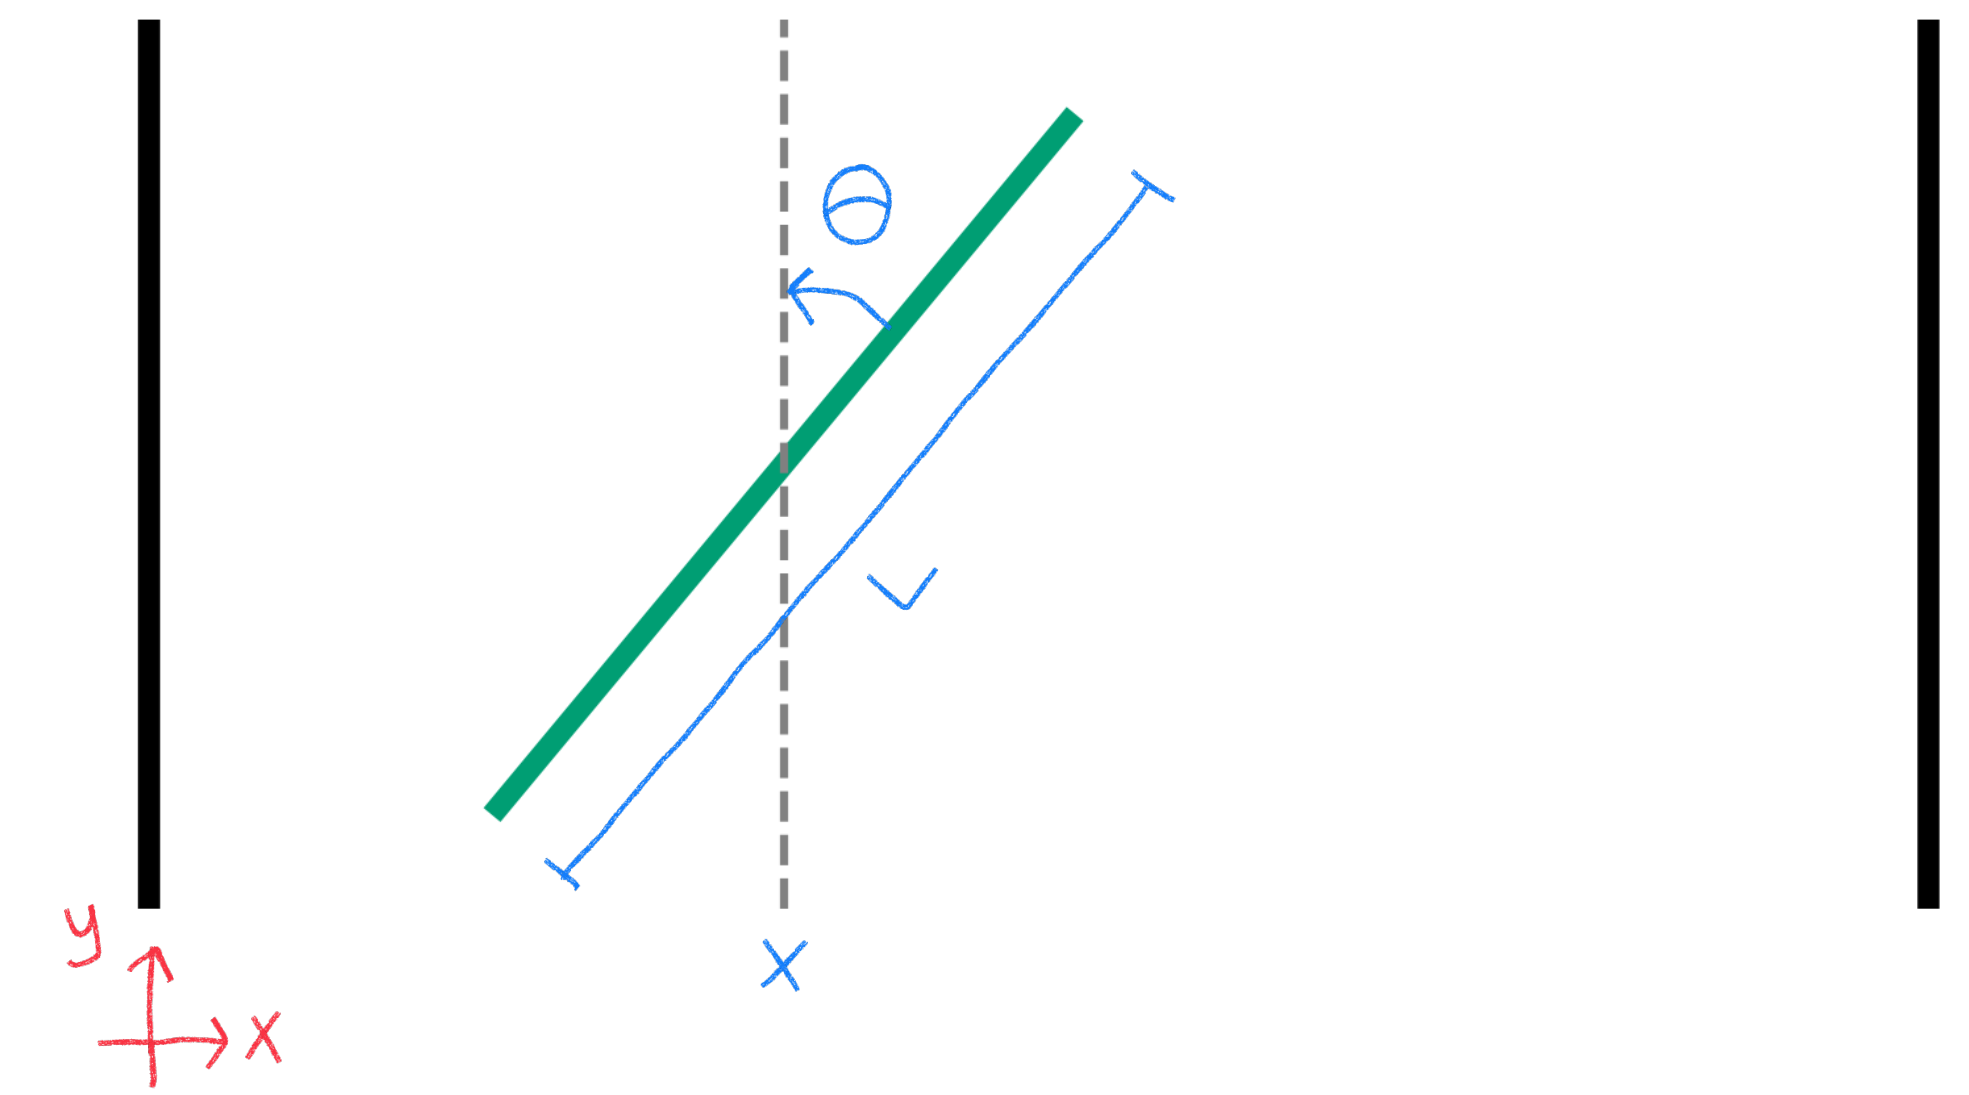
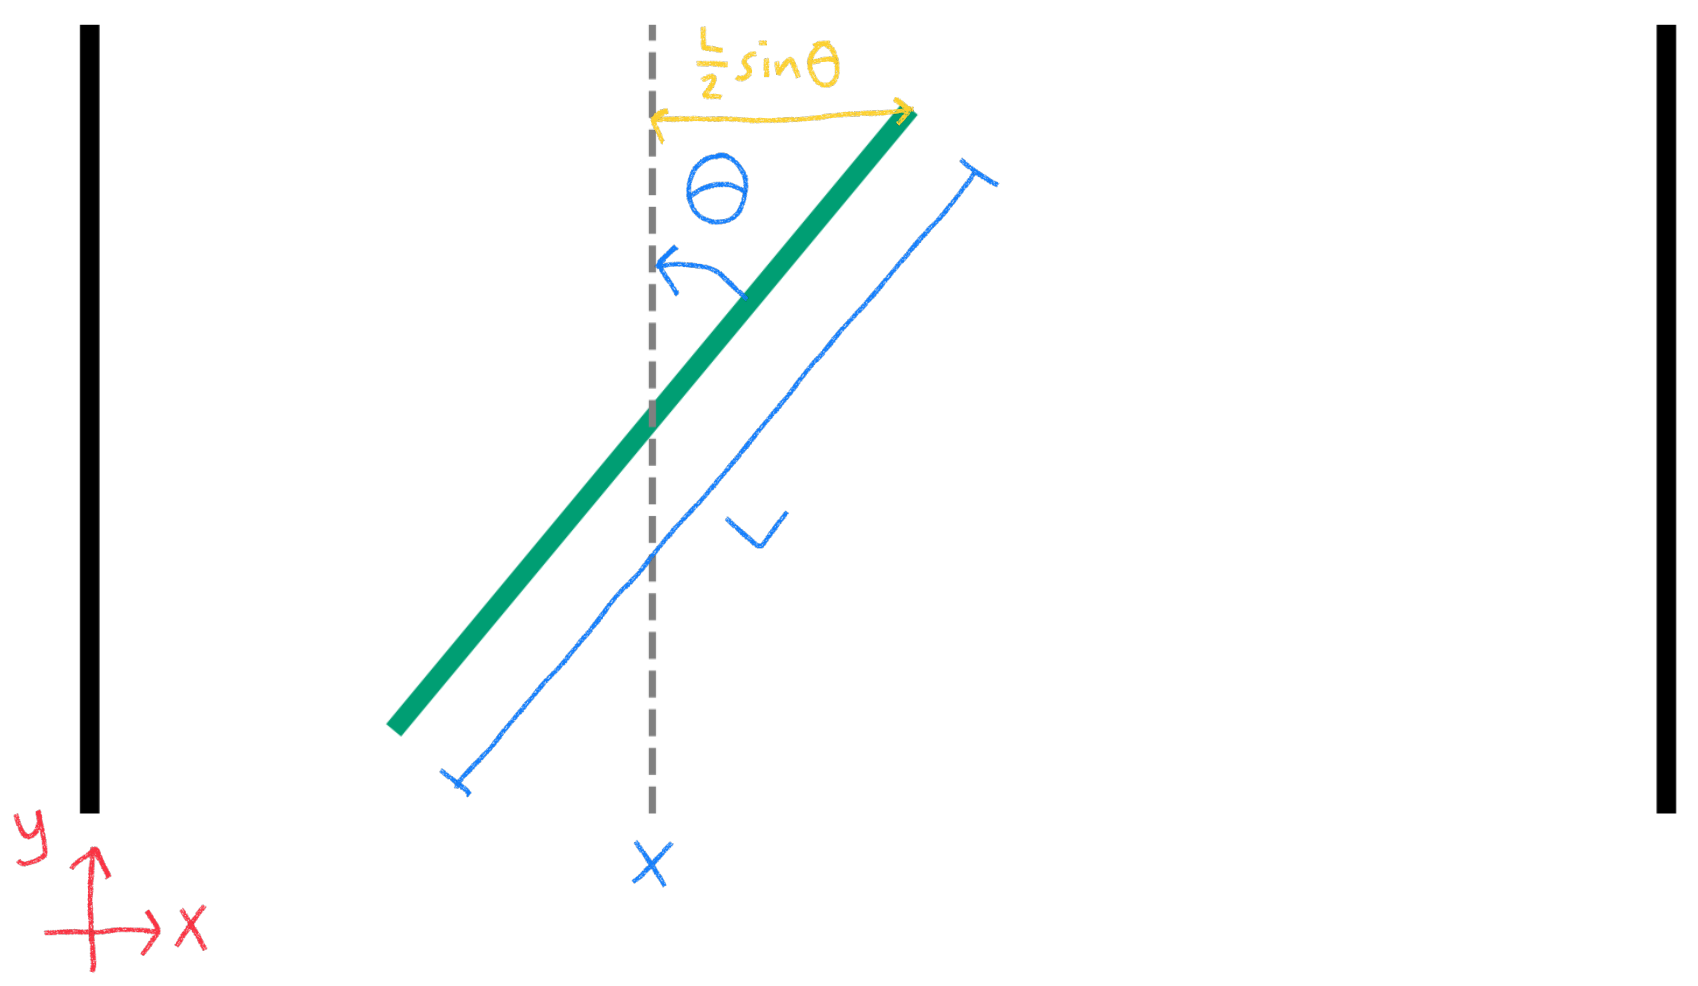
fixes

diff --git a/_posts/2018-04-11-buffon.md b/_posts/2018-04-11-buffon.md
@@ -42,7 +42,7 @@ The position and orientation of a needle on the floor is described by the Cartes
 </figure>
 
 Note that the $y$ coordinate of a needle does not influence whether it intersects a line on the floor or not.
-Therefore, we do not need to consider it for our calculations; we only need to keep track of the $x$-coordinate (green axis is the $x$-axis) and angle $\theta$ of a needle during the simulation.
+Therefore, we do not need to consider it for our calculations; we only need to keep track of the $x$-coordinate and angle $\theta$ of a needle during the simulation.
 
 We create a data structure `Needle` to represent a needle, storing its state $(x, \theta)$ and its attribute $L$.
 
@@ -58,9 +58,9 @@ end
 
 The simulation needs to model a needle being dropped anywhere on an infinite floor, but it is impractical to create an infinite floor for the simulation. If we define two lines and the space between them as a chunk, we can see that the fraction of needles that intersect a line in each chunk is expected to be the same for each chunk on the floor. Thus for our simulation, we consider only a single chunk $0 \leq x \leq \ell$ and arrive at the answer to Buffon's needle problem, which concerns an infinite floor.
 
-It would be proper to allow the angle with the vertical $0 \leq \theta \leq 2\pi$, however we can take advantage of some rotational symmetry. A needle with angle $\theta$ appears equivalent to a needle with the same coordinates and angle of $\theta + \pi$. We therefore only allow $0 \leq \theta \leq \pi$ in our calculations. For example, since $0 \leq \theta \leq \pi$ contains $\frac{\pi}{4}$ there is no need to test $\frac{5\pi}{4}$ because they would describe the same orientation of a needle.
+It would be proper to allow the angle with the vertical $0 \leq \theta \leq 2\pi$, however we can take advantage of some rotational symmetry. A needle with angle $\theta$ appears equivalent to a needle with the same coordinates and angle of $\theta + \pi$. We therefore only allow $0 \leq \theta \leq \pi$ in our calculations. 
 
-The "state space" $\mathcal{R}$ of a needle, and therefore the simulation box for our simulation is:
+The state space $\mathcal{R}$ of a needle is then:
 
 $$\mathcal{R} = \left \{ (x,\theta) \mid 0\leq x\leq \ell,0\leq \theta \leq \pi \right \}$$
 
@@ -83,9 +83,9 @@ This function essentially "samples" the needle state space, $\mathcal{R}$.
 
 ## checking a needle for intersection with a line on the floor
 
-A needle will intersect a line if part of the needle overlaps $x=0$ or $x=\ell$. We check for overlap by checking the $x$-coordinates of the endpoints of the needles. If one of those is outside the simulation box (one is less than $0$ or greater than $\ell$), then the needle intersects a line. 
+A needle will intersect a line if part of the needle overlaps $x=0$ or $x=\ell$. We check for overlap by checking the $x$-coordinates of the endpoints of the needles. If either the left or right endpoint of the needle is less than $0$ or greater than $\ell$, respectively, then the needle intersects a line. 
 
-The $x$-coordinates of the two endpoints of a needle are found as follows. First, take the $x$-coordinate for the center of the needle. Then add or subtract half of the length of the projection of the needle onto the $x$-axis, $\frac{L}{2}\sin\theta$. This generates two conditions for whether or not a needle crosses a line. A needle with coordinate $x$ and angle $\theta$ intersects a line if and only if:
+The $x$-coordinates of the two endpoints of a needle are found as follows. Take the $x$-coordinate of the center of the needle. Then add and subtract half of the length of the projection of the needle onto the $x$-axis, $\frac{L}{2}\sin\theta$ (see the diagram above). This generates two conditions for whether or not a needle crosses a line. A needle with coordinate $x$ and angle $\theta$ intersects a line if and only if:
 
 <center>$x+\frac{L}{2}\sin\theta\geq \ell$ or $x-\frac{L}{2}\sin\theta\leq 0$</center>
 
@@ -149,7 +149,7 @@ function estimate_prob_needle_crosses_line(nb_tosses::Int,
 end
 ```
 
-We plot randomly generated needles as points in their state space $\mathcal{R}$ below. The needles that were found to intersect a line on the floor are colored with blue. Those that didn't intersect a line are colored green. This visualization is valuable because, once we plot the data, the curves $x+\frac{L}{2}\sin\theta\geq \ell$ and $x-\frac{L}{2}\sin\theta\leq 0$ and their areas $A_2$ and $A_1$ from the analytical approach are apparent. Also note that if $\theta$ is close to zero or $\pi$, it is highly unlikely (more red) that a needle will intersect a line because it is almost parallel with the lines on the floor.
+We plot randomly generated needles as points in their state space $\mathcal{R}$ below. The needles that were found to intersect a line on the floor are colored with blue. Those that didn't intersect a line are colored green. The regions $x+\frac{L}{2}\sin\theta\geq \ell$ and $x-\frac{L}{2}\sin\theta\leq 0$ and their areas $A_2$ and $A_1$ from the analytical approach are shaded blue. Also note that if $\theta$ is close to zero or $\pi$, it is highly unlikely (less blue with $\theta$ fixed) that a needle will intersect a line because it is almost parallel with the lines on the floor. In contrast, fixed $\theta=\pi/2$ maximizes the probability that the needle intersects a line.
 
 <figure>
     <img src="/images/Buffon/state_space.png" alt="image" style="width: 100%;">
